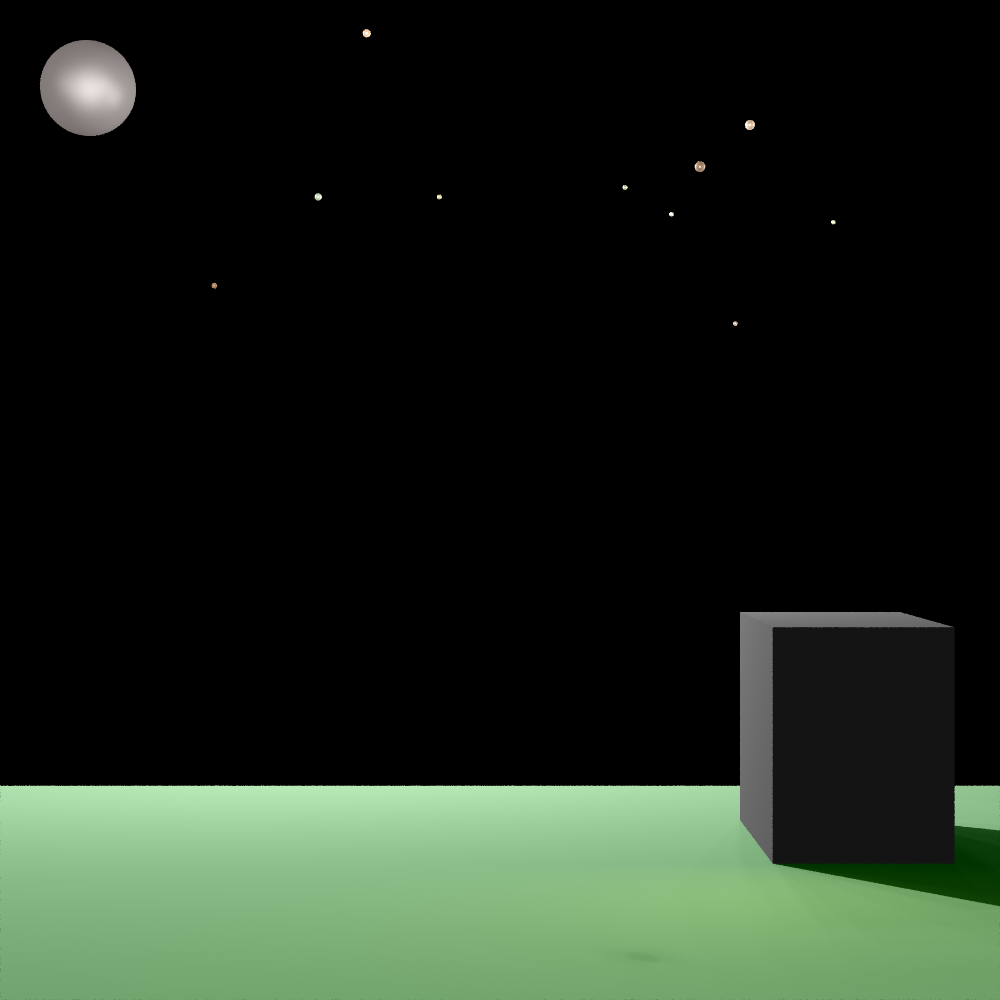
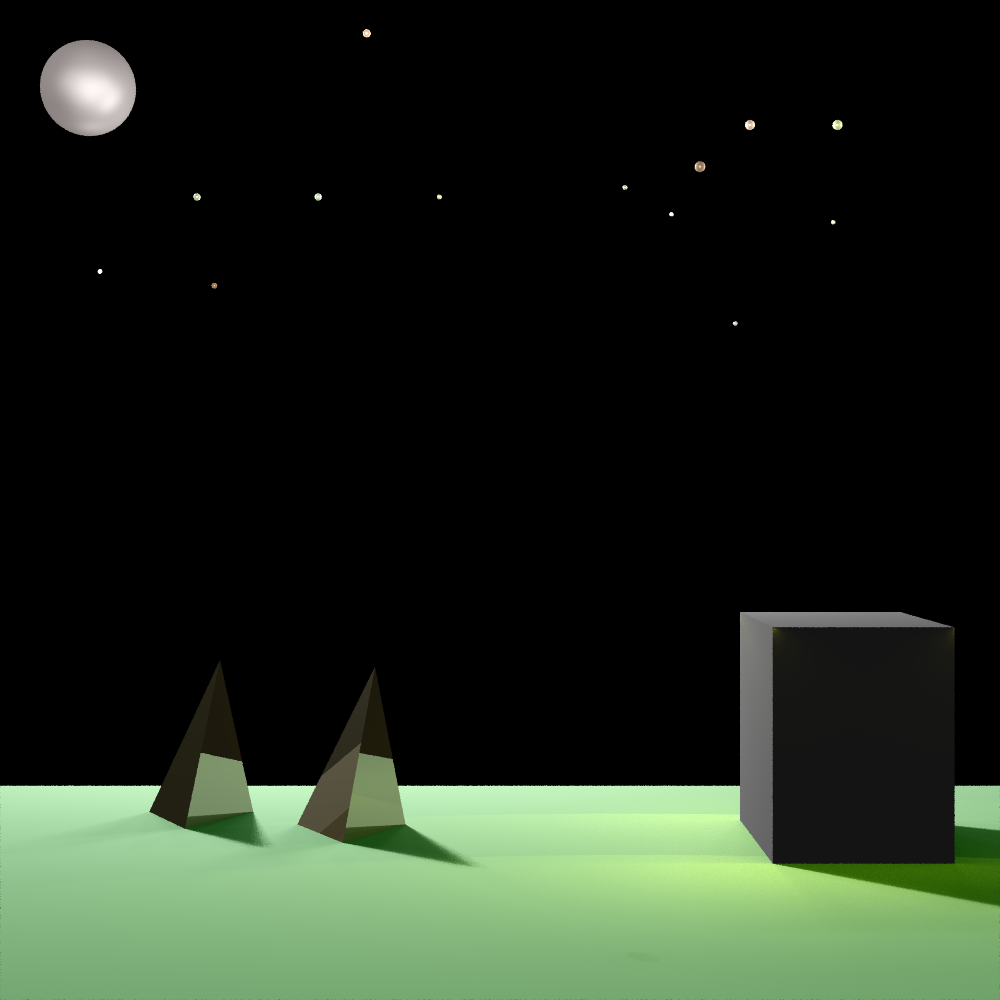
קיצור העץ

Changed region(s): [[0.155, 0.651, 1.0, 0.93], [0.062, 0.031, 0.155, 0.155]]

diff --git a/src/geometries/Geometries.java b/src/geometries/Geometries.java
@@ -26,16 +26,12 @@ public class Geometries implements Intersectable {
         _bounds = new Point3D[2];
         // check if the min point is closer to the origin than the max point
         //assert (min,minPointBound(min,max));
-        if(min.get_x().get()<=max.get_x().get()&&
-        min.get_y().get()<=max.get_y().get()&&
-        min.get_z().get()<=max.get_z().get()) {
-            _bounds[0] = new Point3D(min);
-            _bounds[1] = new Point3D(max);
-        }
-        else{
-            _bounds[1] = new Point3D(min);
-            _bounds[0] = new Point3D(max);
-        }
+        _bounds[0]=new Point3D(Math.min(min.get_x().get(),max.get_x().get()),
+                Math.min(min.get_y().get(),max.get_y().get()),
+                Math.min(min.get_z().get(),max.get_z().get()));
+        _bounds[1]=new Point3D(Math.max(min.get_x().get(),max.get_x().get()),
+                Math.max(min.get_y().get(),max.get_y().get()),
+                Math.max(min.get_z().get(),max.get_z().get()));
     }
 
     /**
@@ -107,10 +103,13 @@ public class Geometries implements Intersectable {
      */
     private boolean isIntersectBox(Ray ray) {
 
-        Point3D startRay=ray.get_p0(), direction=ray.get_dir().get_head();
-        double start_x=startRay.get_x().get(),start_y=startRay.get_y().get(),start_z=startRay.get_z().get(),
-               dir_x=direction.get_x().get(),dir_y=direction.get_y().get(),dir_z=direction.get_z().get();
-
+        /*Point3D startRay=ray.get_p0(), direction=ray.get_dir().get_head();
+        double  start_x=startRay.get_x().get(),
+                start_y=startRay.get_y().get(),
+                start_z=startRay.get_z().get(),
+                dir_x=direction.get_x().get(),
+                dir_y=direction.get_y().get(),
+                dir_z=direction.get_z().get();
         double tmin,tmax,temp;
         if(dir_x!=0) {
             tmin = (_bounds[0].get_x().get() - start_x) / dir_x;
@@ -121,10 +120,17 @@ public class Geometries implements Intersectable {
                 tmax = temp;
                 //Util.swap(tmin, tmax);
             }
+            // Check if the Intersectable is behind the camera
+            if (tmax <= 0) return false;
         }
         else{
-            tmin=Double.POSITIVE_INFINITY;
-            tmax=Double.POSITIVE_INFINITY;
+            //if the ray is parallel to the box and start outside
+            if (start_x >= _bounds[1].get_x().get() || start_x <= _bounds[0].get_x().get())
+                return false;
+            else{
+                tmax = Double.POSITIVE_INFINITY;
+                tmin = Double.NEGATIVE_INFINITY;
+            }
         }
 
         double tymin,tymax;
@@ -137,10 +143,16 @@ public class Geometries implements Intersectable {
                 tymax = temp;
                 //Util.swap(tymin, tymax);
             }
+            if (tymax <= 0) return false;
         }
         else{
-            tymin=Double.POSITIVE_INFINITY;
-            tymax=Double.POSITIVE_INFINITY;
+            //if the ray is parallel to the box and start outside
+            if (start_y >= _bounds[1].get_y().get() || start_y <= _bounds[0].get_y().get())
+                return false;
+            else{
+                tymin = Double.POSITIVE_INFINITY;
+                tymax = Double.NEGATIVE_INFINITY;
+            }
         }
 
         if ((tmin > tymax) || (tymin > tmax))
@@ -163,10 +175,16 @@ public class Geometries implements Intersectable {
                 tzmax = temp;
                 //Util.swap(tzmin, tzmax);
             }
+            if (tzmax <= 0) return false;
         }
         else{
-            tzmin=Double.POSITIVE_INFINITY;
-            tzmax=Double.POSITIVE_INFINITY;
+            //if the ray is parallel to the box and start outside
+            if (start_z >= _bounds[1].get_z().get() || start_z <= _bounds[0].get_z().get())
+                return false;
+            else{
+                tzmin = Double.POSITIVE_INFINITY;
+                tzmax = Double.NEGATIVE_INFINITY;
+            }
         }
 
         if ((tmin > tzmax) || (tzmin > tmax) )
@@ -178,7 +196,8 @@ public class Geometries implements Intersectable {
         if (tmax < tmin) return false;
 
         return true;
-        /*Point3D start = ray.get_p0();
+
+        */Point3D start = ray.get_p0();
 
         double start_X = start.get_x().get();
         double start_Y = start.get_y().get();
@@ -196,7 +215,7 @@ public class Geometries implements Intersectable {
         //If the direction_X is negative then the _min_X give the maximal value
         if (direction_X < 0) {
             max_t_for_X = (_bounds[0].get_x().get() - start_X) / direction_X;
-            // Check if the Intersectble is behind the camera
+            // Check if the Intersectable is behind the camera
             if (max_t_for_X <= 0) return false;
             min_t_for_X = (_bounds[1].get_x().get() - start_X) / direction_X;
         }
@@ -270,7 +289,7 @@ public class Geometries implements Intersectable {
 
         if (temp_max < temp_min) return false;
 
-        return true;*/
+        return true;
     }
 
     /**
@@ -285,27 +304,27 @@ public class Geometries implements Intersectable {
             Geometries left = null, right = null;
             best = Double.POSITIVE_INFINITY;
             for (int i = 0; i < c._geometries.size(); i++) {
-                Intersectable geo1 = c._geometries.get(i);
+                Geometries geo1 = (Geometries)c._geometries.get(i);
                 for (int j = i + 1; j < c._geometries.size(); j++) {
-                    Intersectable geo2 = c._geometries.get(j);
+                    Geometries geo2 = (Geometries)c._geometries.get(j);
                     if (!geo1.equals(geo2)) {
                         double distance = distance(geo1, geo2);
                         if (distance < best) {
                             best = distance;
-                            left = new Geometries(geo1);
-                            right = new Geometries(geo2);
+                            left = geo1;
+                            right = geo2;
                         }//endif
                     }//endif
                 }//end for
             }//end for
             // after finding the two closet geometries (left and right) - binding them into one Geometries object
-            left._bounds = left._geometries.get(0).getBounds();
-            right._bounds = right._geometries.get(0).getBounds();
+            //left._bounds = left._geometries.get(0).getBounds();
+            //right._bounds = right._geometries.get(0).getBounds();
             //add the new combined bound to the list
             Geometries c1 = new Geometries(minPointBound(left, right), maxPointBound(left, right));
             c1.add(left, right);
-            c._geometries.remove(left._geometries.get(0));
-            c._geometries.remove(right._geometries.get(0));
+            c._geometries.remove(left);
+            c._geometries.remove(right);
             c.add(c1);
         }//end while
         _geometries = List.of(c._geometries.get(0));
@@ -380,7 +399,7 @@ public class Geometries implements Intersectable {
      * Create bound boxes for each Geometry separately.
      */
     private void boundGeometries() {
-        flatten();
+        //flatten();
         List<Intersectable> l = new LinkedList<>();
         for (Intersectable i : _geometries) {
             Geometries g = new Geometries(i);

diff --git a/unittests/renderer/ProjectFeatureTest.java b/unittests/renderer/ProjectFeatureTest.java
@@ -29,8 +29,11 @@ public class ProjectFeatureTest {
         scene.addGeometries(new Sphere(new primitives.Color(Color.black),250, new Point3D(0, 0, 1000)));
 
 
-        ImageWriter imageWriter = new ImageWriter("Super Sampling Test", 1000, 1000, 1000, 1000);
-        Render render = new Render(imageWriter, scene).setAmountOfRaysForAntiAliasing(200).setMultithreading(3).setDebugPrint();
+        ImageWriter imageWriter = new ImageWriter("Super Sampling Test", 1000, 1000, 500, 500);
+        Render render = new Render(imageWriter, scene)
+                .setAmountOfRaysForAntiAliasing(200)
+                .setMultithreading(3)
+                .setDebugPrint();
 
         render.renderImage();
         render.writeToImage();
@@ -191,34 +194,18 @@ public class ProjectFeatureTest {
 
 
         ImageWriter imageWriter = new ImageWriter("testComplex_scene", 400, 300, 1440, 1080);
-        Render render = new Render(imageWriter, scene).setMultithreading(3).setDebugPrint().setAmountOfRaysForSoftShadow(100).setRadiusOfLightSource(10).enableBVH();
+        Render render = new Render(imageWriter, scene)
+                .setMultithreading(3)
+                .setDebugPrint()
+                .setAmountOfRaysForSoftShadow(100)
+                .setRadiusOfLightSource(10)
+                .enableBVH();
         render.renderImage();
         render.writeToImage();
     }
 
 
-    @Test
-    public void SphereTriangleInitial() {
-        Scene scene = new Scene("Test scene");
-        scene.set_camera(new Camera(new Point3D(0, 0, -1000), new Vector(0, 0, 1), new Vector(0, -1, 0)));
-        scene.set_distance(1000);
-        scene.set_background(primitives.Color.BLACK);
-        scene.set_ambientLight(new AmbientLight(primitives.Color.BLACK, 0));
 
-        scene.addGeometries(new Sphere(new primitives.Color(Color.green), new Material(0.5, 0.5, 30), //
-                        60, new Point3D(0, 0, 200)), //
-                new Triangle(new primitives.Color(java.awt.Color.BLUE), new Material(0.5, 0.5, 30), //
-                        new Point3D(-70, 40, 0), new Point3D(-40, 70, 0), new Point3D(-68, 68, 4)));
-
-        scene.addLights(new SpotLight(new primitives.Color(400, 240, 0), //
-                new Point3D(-100, 100, -200), 1, 1E-5, 1.5E-7, new Vector(1, -1, 3)));
-
-        ImageWriter imageWriter = new ImageWriter("sphereTriangleInitial2", 200, 200, 400, 400);
-        Render render = new Render(imageWriter, scene);
-
-        render.renderImage();
-        render.writeToImage();
-    }
 
     @Test
     public void HousesScene(){
@@ -255,6 +242,14 @@ public class ProjectFeatureTest {
                         4,new Point3D(-200,300,600)),
                 new Sphere(new primitives.Color(30,40,20), new Material(0.1,0.2,50,0.8,0),
                         3,new Point3D(150,250,650)),
+                new Sphere(new primitives.Color(50,50,10), new Material(0.2,0.3,50,0.8,0),
+                        2,new Point3D(350,200,750)),
+                new Sphere(new primitives.Color(40,45,10), new Material(0.1,0.2,50,0.8,0),
+                        4,new Point3D(-270,300,600)),
+                new Sphere(new primitives.Color(30,40,20), new Material(0.1,0.2,50,0.8,0),
+                        3,new Point3D(250,250,650)),
+
+
                 //house
                 new Polygon(new primitives.Color(20,20,20),new Material(0.2,0.1,10),
                         new Point3D(-150,-200,250),new Point3D(-150,-70,250),new Point3D(-150,-70,100),new Point3D(-150,-200,100)),
@@ -265,7 +260,17 @@ public class ProjectFeatureTest {
                 new Polygon(new primitives.Color(20,20,20),new Material(0.2,0.1,10),
                         new Point3D(-250,-200,100),new Point3D(-250,-70,100),new Point3D(-150,-70,100),new Point3D(-150,-200,100)),
                 new Polygon(new primitives.Color(20,20,20),new Material(0.2,0.1,10),
-                        new Point3D(-150,-70,250),new Point3D(-250,-70,250),new Point3D(-250,-70,100),new Point3D(-150,-70,100))
+                        new Point3D(-150,-70,250),new Point3D(-250,-70,250),new Point3D(-250,-70,100),new Point3D(-150,-70,100)),
+                //pyramids
+                new Triangle(new primitives.Color(25,22,10),new Material(0.1,0.1,10,0,0.5),
+                        new Point3D(150,-250,250),new Point3D(75,-100,200),new Point3D(100,-250,150)),
+                new Triangle(new primitives.Color(25,22,10),new Material(0.1,0.1,10,0,0.5),
+                        new Point3D(100,-250,150),new Point3D(75,-100,200),new Point3D(50,-250,250)),
+
+                new Triangle(new primitives.Color(25,22,10),new Material(0.1,0.1,10,0,0.5),
+                        new Point3D(250,-250,300),new Point3D(175,-100,250),new Point3D(200,-250,200)),
+                new Triangle(new primitives.Color(25,22,10),new Material(0.1,0.1,10,0,0.5),
+                        new Point3D(200,-250,200),new Point3D(175,-100,250),new Point3D(150,-250,300))
 
         );
         scene.addLights(
@@ -295,9 +300,20 @@ public class ProjectFeatureTest {
                         new Point3D(-200,300,600), 1, 0.01, 0.0001),
                 new PointLight(new primitives.Color(1000, 1000, 1000),
                         new Point3D(150,250,650), 1, 0.01, 0.0001),
+                new PointLight(new primitives.Color(1000, 1000, 1000),
+                        new Point3D(350,200,750), 1, 0.01, 0.0001),
+                new PointLight(new primitives.Color(1000, 1000, 1000),
+                        new Point3D(-270,300,600), 1, 0.01, 0.0001),
+                new PointLight(new primitives.Color(1000, 1000, 1000),
+                        new Point3D(250,250,650), 1, 0.01, 0.0001),
+
                 //spot on building
                 new SpotLight(new primitives.Color(1000, 1000, 100),
-                        new Point3D(-151,-70,99), 1, 0.01, 0.0001,new Vector(0,0,-1))
+                        new Point3D(-151,-70,99), 1, 0.01, 0.0001,new Vector(0,-1,0)),
+                new SpotLight(new primitives.Color(1000, 1000, 100),
+                        new Point3D(-251,-70,99), 1, 0.01, 0.0001,new Vector(0,-1,0)),
+                new SpotLight(new primitives.Color(1000, 1000, 100),
+                        new Point3D(-149,-70,251), 1, 0.01, 0.0001,new Vector(0,-1,0))
 
         );
         ImageWriter imageWriter = new ImageWriter("HousesScene", 500, 500, 1000, 1000);
@@ -306,8 +322,8 @@ public class ProjectFeatureTest {
                 .setMultithreading(3)
                 .setAmountOfRaysForAntiAliasing(10)
                 .setAmountOfRaysForSoftShadow(10)
-                .enableBVH()
-                .setRadiusOfLightSource(10)
+                //.enableBVH()
+                .setRadiusOfLightSource(40)
         ;
 
         render.renderImage();

diff --git a/src/primitives/Beam.java b/src/primitives/Beam.java
@@ -29,6 +29,8 @@ public class Beam {
         rayList = new LinkedList<>();
         //adding the main ray to the list
         rayList.add(ray);
+        Vector vx = ray.get_dir().getOrthogonal(),
+                vy = vx.crossProduct(ray.get_dir());//two orthogonal vectors
         double x, y;
         Ray r;
         for (int i = 1; i < amountRays; i++) {
@@ -36,7 +38,7 @@ public class Beam {
                 //create random ray in the boundary of the rectangle that doesn't exist in the list already
                 y = (Math.random() * (height)) - (height / 2) + ray._p0._y._coord;//random number from -height/2 to height/2
                 x = (Math.random() * (width)) - (width / 2) + ray._p0._x._coord;//random number from -width/2 to width/2
-                r = constructRay(ray, pC, x, y, new Vector(1, 0, 0), new Vector(0, 1, 0));
+                r = constructRay(ray, pC, x, y, vx, vy);
             } while (rayList.contains(r));// check if the new ray is already exists in the list
             rayList.add(r);
         }
